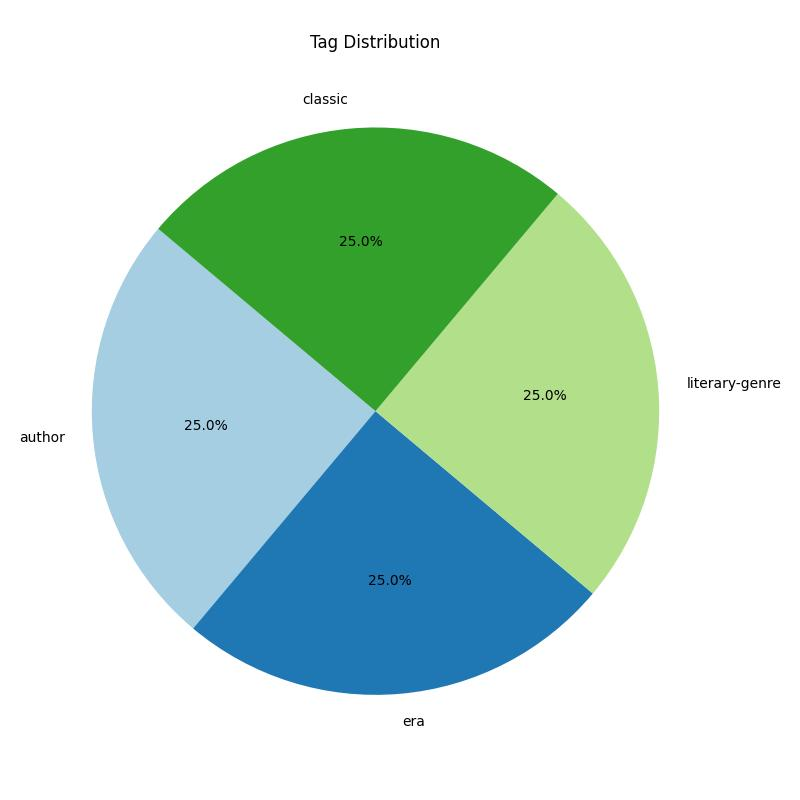
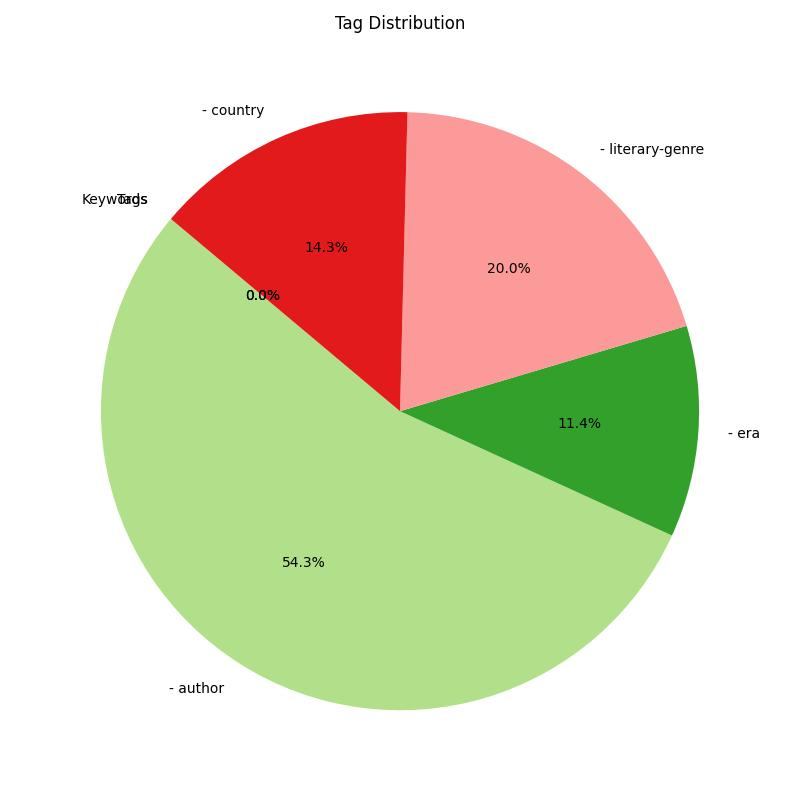
chore: commit save point

diff --git a/main.py b/main.py
@@ -91,17 +91,20 @@ def extract_related_books(text: str) -> str:
 
 def generate_bar_chart(keywords: str, output_path: str):
     """
-    Genera una gráfica de barras con las palabras clave y guarda la imagen en el directorio especificado.
+    Genera una gráfica de barras con las palabras clave y sus frecuencias reales.
     """
     # Procesamos las palabras clave
     keywords_list = keywords.split("keywords:")[-1].strip().split("\n- ")
     keywords_list = [kw for kw in keywords_list if kw]  # Filtramos palabras vacías
 
-    # Creamos un DataFrame con frecuencias ficticias (puedes usar datos reales si los tienes)
-    df = pd.DataFrame({'Keyword': keywords_list, 'Frequency': [1] * len(keywords_list)})
+    # Calculamos la frecuencia de cada palabra clave
+    keyword_counts = pd.Series(keywords_list).value_counts()
+
+    # Creamos un DataFrame con las frecuencias
+    df = pd.DataFrame({'Keyword': keyword_counts.index, 'Frequency': keyword_counts.values})
 
     # Generamos la gráfica de barras
-    plt.figure(figsize=(10, 6))
+    plt.figure(figsize=(12, 6))
     df.plot(kind='bar', x='Keyword', y='Frequency', legend=False, color='skyblue')
     plt.title('Keyword Frequency')
     plt.xlabel('Keywords')
@@ -115,11 +118,16 @@ def generate_bar_chart(keywords: str, output_path: str):
 
 def generate_pie_chart(tags: dict, output_path: str):
     """
-    Genera una gráfica de pastel con las categorías extraídas y guarda la imagen en el directorio especificado.
+    Genera una gráfica de pastel con las categorías extraídas y sus pesos proporcionales.
     """
-    # Creamos etiquetas y valores
+    # Creamos etiquetas y valores basados en la longitud de los valores de los tags
     labels = list(tags.keys())
-    sizes = [1] * len(tags)  # Asignamos un valor ficticio de 1 a cada categoría
+    sizes = [len(value) for value in tags.values()]  # Usamos la longitud del valor como peso
+
+    # Validamos que no haya valores NaN o cero en sizes
+    if not sizes or sum(sizes) == 0:
+        print("Warning: No valid data for pie chart. Skipping generation.")
+        return
 
     # Generamos la gráfica de pastel
     plt.figure(figsize=(8, 8))
@@ -133,18 +141,18 @@ def generate_pie_chart(tags: dict, output_path: str):
 
 def generate_scatter_plot(keywords: str, output_path: str):
     """
-    Genera una gráfica de dispersión con las palabras clave y guarda la imagen en el directorio especificado.
+    Genera una gráfica de dispersión con las palabras clave y su relevancia basada en la longitud.
     """
     # Procesamos las palabras clave
     keywords_list = keywords.split("keywords:")[-1].strip().split("\n- ")
     keywords_list = [kw for kw in keywords_list if kw]
 
-    # Creamos datos ficticios para la relevancia
+    # Creamos datos para la gráfica
     x = range(len(keywords_list))
-    y = [len(kw) for kw in keywords_list]  # Usamos la longitud de las palabras como ejemplo de relevancia
+    y = [len(kw) for kw in keywords_list]  # Usamos la longitud de las palabras como relevancia
 
     # Generamos la gráfica de dispersión
-    plt.figure(figsize=(10, 6))
+    plt.figure(figsize=(12, 6))
     plt.scatter(x, y, color='blue', alpha=0.7)
     plt.title('Keyword Relevance')
     plt.xlabel('Keyword Index')
@@ -155,6 +163,17 @@ def generate_scatter_plot(keywords: str, output_path: str):
     # Guardamos la gráfica
     plt.savefig(output_path, format="jpg")
     plt.close()
+
+def parse_tags_from_keywords(keywords: str) -> dict:
+    """
+    Extrae los tags (author, era, literary-genre, etc.) de la salida de la IA.
+    """
+    tags = {}
+    for line in keywords.split("\n"):
+        if ":" in line:  # Busca líneas con formato "clave: valor"
+            key, value = line.split(":", 1)
+            tags[key.strip()] = value.strip()
+    return tags
 
 def main():
     # Aquí podrías tener la cadena de texto de entrada organizada en una lista legible.
@@ -174,6 +193,9 @@ def main():
     print("\nExtracted Keywords and Tags:")
     print(extracted_keywords)  # Imprimimos los keywords y tags extraídos
 
+    # Extraemos los tags de los keywords
+    tags = parse_tags_from_keywords(extracted_keywords)
+
     # Llamamos a la función para obtener libros relacionados
     related_books = extract_related_books(input_text)
     print("\nRelated Books:")
@@ -190,8 +212,7 @@ def main():
     generate_bar_chart(extracted_keywords, output_path_bar)
     print(f"\nBar chart saved to {output_path_bar}")
 
-    # Generamos la gráfica de pastel
-    tags = {"author": "miguel de cervantes", "era": "1605", "literary-genre": "novel", "classic": "yes"}
+    # Generamos la gráfica de pastel con los tags extraídos
     output_path_pie = "img/tag_pie_chart.jpg"
     generate_pie_chart(tags, output_path_pie)
     print(f"\nPie chart saved to {output_path_pie}")
